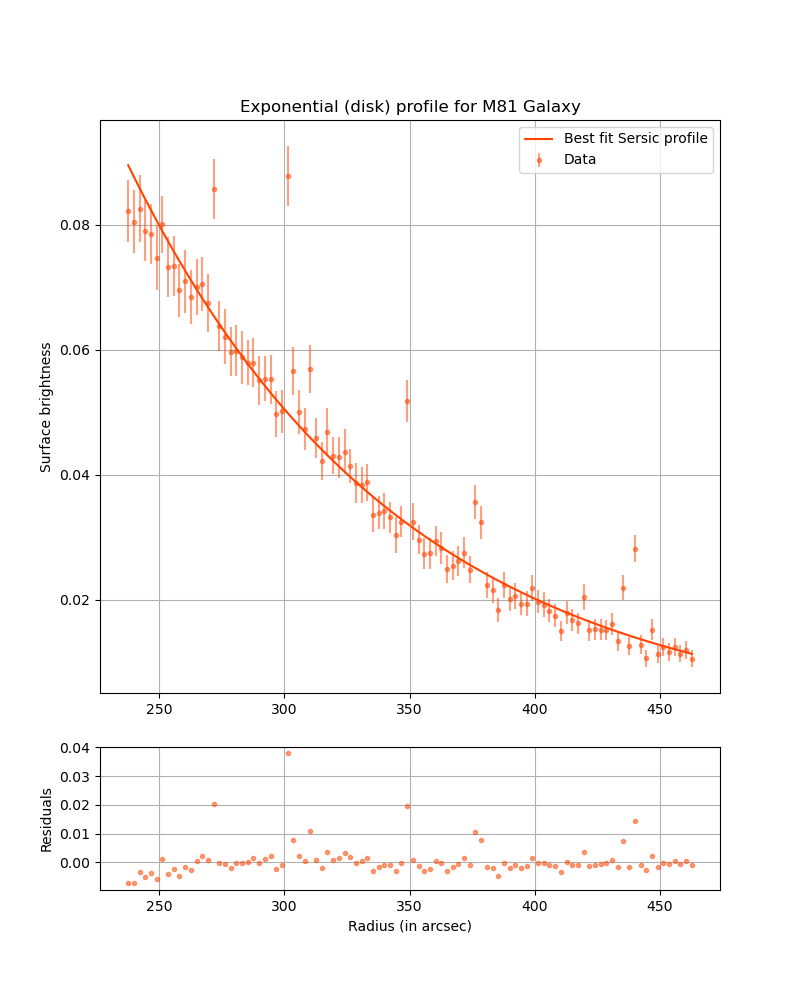
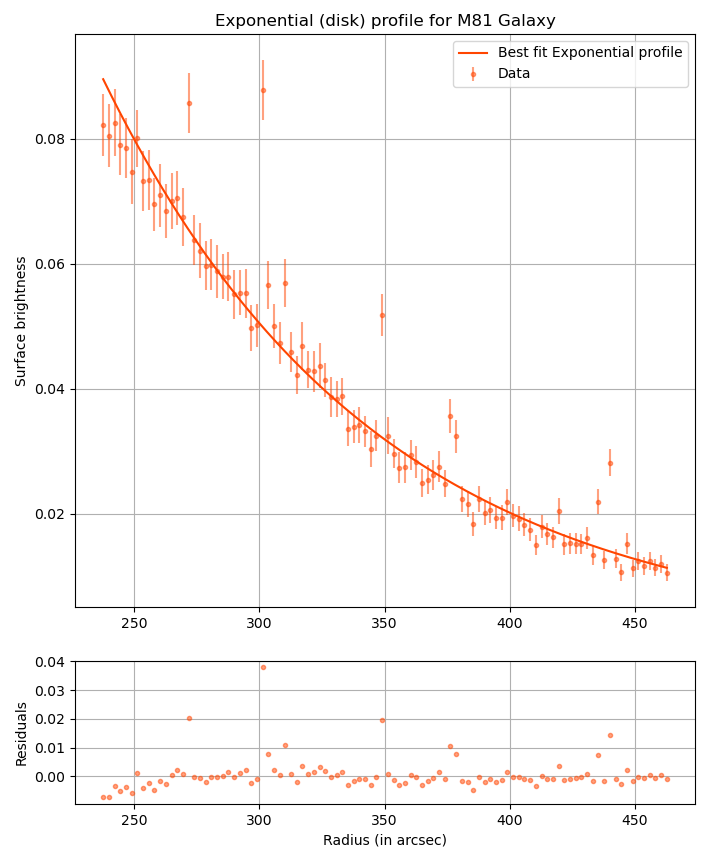
Finalizing the project

diff --git a/radius.py b/radius.py
@@ -1,0 +1,23 @@
+import numpy as np
+import astropy.constants as con
+import astropy.units as u
+
+name = np.array(['M81', 'M87', 'M101'])
+distances = np.array([3.6, 16.4, 6.4])*u.Mpc
+ang_eff_rad = np.array([0.473, 99.084, 0.056])*u.arcsec
+ang_sc_rad = np.array([108.849, 0, 112.793])*u.arcsec
+
+ang_eff_rad_radians = ang_eff_rad.to('', equivalencies=u.dimensionless_angles())
+ang_sc_rad_radians = ang_sc_rad.to('', equivalencies=u.dimensionless_angles())
+
+size_eff = (ang_eff_rad_radians*distances).to(u.kpc)
+size_scale = (ang_sc_rad_radians*distances).to(u.kpc)
+
+f1 = open('various_radii.dat', 'w')
+f1.write('#Name \t Effective radius \t Scale Radius\n')
+f1.write('#\t\t (in kpc)\t (in kpc)\n')
+
+for i in range(len(name)):
+	f1.write(name[i] + '\t' + str(size_eff[i]) + '\t' + str(size_scale[i]) + '\n')
+
+f1.close()

diff --git a/Morphology_of_Galaxies/M101/22.py b/Morphology_of_Galaxies/M101/22.py
@@ -49,12 +49,12 @@ gs2 = gd.GridSpec(2, 1, height_ratios = [4,1])
 ax2 = plt.subplot(gs2[0])
 
 ax2.errorbar(asc, sb, yerr=sbe, color='orangered', fmt='.', alpha=0.5, label='Data')
-ax2.plot(xx, sersic(xx, *popt), color='orangered', label='Best fit Sersic profile')
+ax2.plot(xx, sersic(xx, *popt), color='orangered', label='Best fit Exponential profile')
 ax2.grid()
 ax2.legend(loc='best')
 plt.subplots_adjust(hspace = 0.15)
 plt.ylabel('Surface brightness')
-plt.title('Exponential profile for M101 Galaxy')
+plt.title('Exponential (disk) profile for M101 Galaxy')
 
 
 ax22 = plt.subplot(gs2[1], sharex = ax2)

diff --git a/Morphology_of_Galaxies/m81/22.py b/Morphology_of_Galaxies/m81/22.py
@@ -49,12 +49,12 @@ gs2 = gd.GridSpec(2, 1, height_ratios = [4,1])
 ax2 = plt.subplot(gs2[0])
 
 ax2.errorbar(asc, sb, yerr=sbe, color='orangered', fmt='.', alpha=0.5, label='Data')
-ax2.plot(xx, sersic(xx, *popt), color='orangered', label='Best fit Sersic profile')
+ax2.plot(xx, sersic(xx, *popt), color='orangered', label='Best fit Exponential profile')
 ax2.grid()
 ax2.legend(loc='best')
 plt.subplots_adjust(hspace = 0.15)
 plt.ylabel('Surface brightness')
-plt.title('Exponential (disk) profile for M81 Galaxy')
+plt.title('Exponential profile for M81 Galaxy')
 
 
 ax22 = plt.subplot(gs2[1], sharex = ax2)
